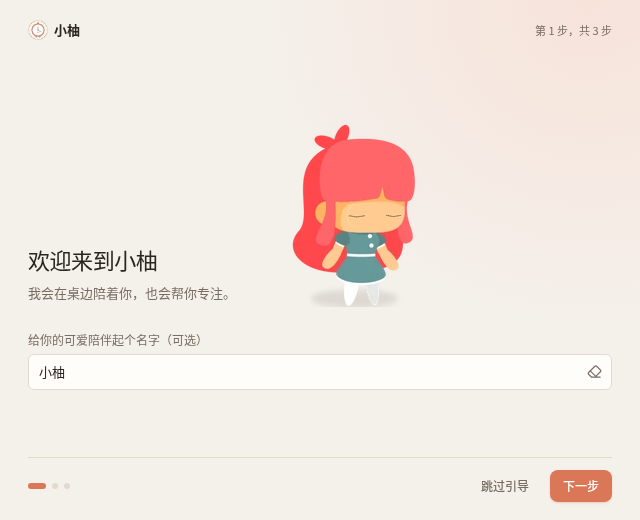
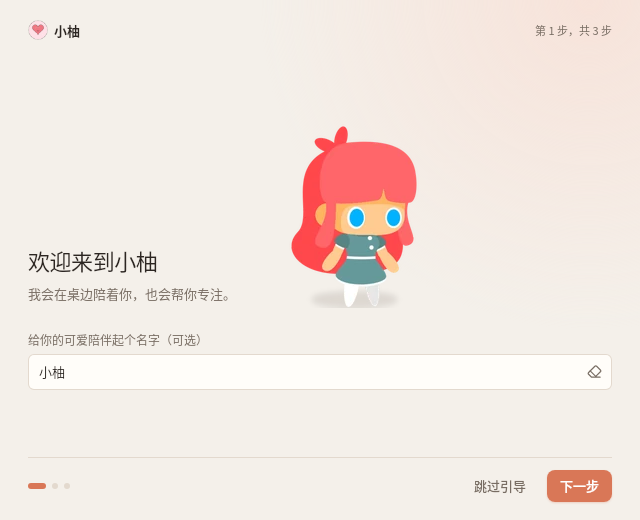
fix(timer): 修复跳过重置、通知本地化与待办时间字段
- 待办新增/编辑弹窗将“提醒时间”移到左侧、“截止时间”移到右侧，并补齐“时间”文案
- 跳过当前计时后清空待开始阶段并回到专注准备气泡，避免遗留其他计时的“专注中”状态
- 新增后端语言解析，系统通知在触发时按当前界面语言生成文案，system 模式解析系统 locale
- 覆盖计时完成、恢复、提醒、待办通知等系统级消息
- 重新截取引导弹窗睁眼状态与计时设置页截图，更新交互/PRD/技术文档与 CHANGELOG

diff --git a/frontend/src/windows/settings/panels/todo/TodoForm.tsx b/frontend/src/windows/settings/panels/todo/TodoForm.tsx
@@ -51,20 +51,20 @@ export function TodoForm({
       </div>
       <div className="todo-time-grid">
         <div className="todo-time-field">
-          <span>{t('settings.todos.due')}</span>
-          <DateTimePicker
-            value={due}
-            onChange={onDueChange}
-            label={t('settings.todos.due')}
-            placeholder={t('settings.todos.datePlaceholder')}
-          />
-        </div>
-        <div className="todo-time-field">
           <span>{t('settings.todos.remind')}</span>
           <DateTimePicker
             value={remind}
             onChange={onRemindChange}
             label={t('settings.todos.remind')}
+            placeholder={t('settings.todos.datePlaceholder')}
+          />
+        </div>
+        <div className="todo-time-field">
+          <span>{t('settings.todos.due')}</span>
+          <DateTimePicker
+            value={due}
+            onChange={onDueChange}
+            label={t('settings.todos.due')}
             placeholder={t('settings.todos.datePlaceholder')}
           />
         </div>

diff --git a/backend/src/timer/service/transitions.rs b/backend/src/timer/service/transitions.rs
@@ -77,39 +77,21 @@ impl TimerService {
         }
         let session_id = self.session_id.take();
         let actual_sec = self.elapsed_sec();
-        let completed_phase = self.phase;
-        let (next_phase, next_total) = match completed_phase {
-            Some(TimerPhase::Focus) => {
-                if self.rounds_setting > 0
-                    && self.rounds_completed > 0
-                    && self.rounds_completed % self.rounds_setting == 0
-                {
-                    (Some(TimerPhase::LongBreak), self.long_break_sec)
-                } else {
-                    (Some(TimerPhase::ShortBreak), self.short_break_sec)
-                }
-            }
-            Some(TimerPhase::LongBreak) => {
-                self.rounds_completed = 0;
-                (Some(TimerPhase::Focus), self.focus_sec)
-            }
-            Some(TimerPhase::ShortBreak) => (Some(TimerPhase::Focus), self.focus_sec),
-            None => (None, 0),
-        };
+        // Skip returns to the focus setup bubble instead of preparing another
+        // phase that would immediately look like a different timer.
+        self.kind = TimerKind::Pomodoro;
         self.status = TimerStatus::Idle;
+        self.phase = None;
+        self.total_sec = self.focus_sec;
+        self.remaining_sec = self.focus_sec;
         self.started_at = None;
         self.ends_at = None;
-        self.remaining_sec = 0;
-        if let Some(next) = next_phase {
-            self.prepare_next(next, next_total);
-        } else {
-            self.phase = None;
-        }
+        self.countup_base = 0;
 
         Some(SkipResult {
             session_id,
             actual_sec,
-            next_phase,
+            next_phase: None,
         })
     }
 

diff --git a/backend/src/menu_text.rs b/backend/src/menu_text.rs
@@ -19,7 +19,7 @@ pub struct PetLabels {
 }
 
 pub fn tray(language: &str) -> TrayLabels {
-    if language == "en-US" {
+    if crate::language::is_english(language) {
         TrayLabels {
             toggle_pet: "Show / Hide Pet",
             start_focus: "Start Focus (25 min)",
@@ -47,7 +47,7 @@ pub fn tray(language: &str) -> TrayLabels {
 }
 
 pub fn pet(language: &str) -> PetLabels {
-    if language == "en-US" {
+    if crate::language::is_english(language) {
         PetLabels {
             start_focus: "Start Focus (25 min)",
             click_through: "Click-through",
@@ -67,7 +67,7 @@ pub fn pet(language: &str) -> PetLabels {
 }
 
 pub fn settings_title(language: &str, name: &str) -> String {
-    if language == "en-US" {
+    if crate::language::is_english(language) {
         format!("{name} Settings")
     } else {
         format!("{name} 设置")
@@ -75,7 +75,7 @@ pub fn settings_title(language: &str, name: &str) -> String {
 }
 
 pub fn onboarding_title(language: &str, name: &str) -> String {
-    if language == "en-US" {
+    if crate::language::is_english(language) {
         format!("Welcome to {name}")
     } else {
         format!("欢迎来到{name}")

diff --git a/backend/src/native_pet/ui.rs b/backend/src/native_pet/ui.rs
@@ -13,7 +13,7 @@ pub(super) fn window_height(size: &str) -> i32 {
 }
 
 pub(super) fn default_hint(language: &str) -> &'static str {
-    if language == "en-US" {
+    if crate::language::is_english(language) {
         "Double-click for settings · right-click for more"
     } else {
         "双击打开设置 · 右键更多"
@@ -21,7 +21,7 @@ pub(super) fn default_hint(language: &str) -> &'static str {
 }
 
 pub(super) fn click_hint(language: &str) -> &'static str {
-    if language == "en-US" {
+    if crate::language::is_english(language) {
         "Hehe, that tickles."
     } else {
         "嘿嘿，好痒。"
@@ -29,7 +29,7 @@ pub(super) fn click_hint(language: &str) -> &'static str {
 }
 
 pub(super) fn ghost_hint(language: &str, enabled: bool) -> &'static str {
-    match (language == "en-US", enabled) {
+    match (crate::language::is_english(language), enabled) {
         (true, true) => "Click-through on",
         (true, false) => "Click-through off",
         (false, true) => "点击穿透已开启",

diff --git a/backend/src/language.rs b/backend/src/language.rs
@@ -1,0 +1,33 @@
+use std::env;
+
+/// Resolve the language used for backend-generated text. The UI resolves
+/// "system" through the platform locale, so backend notifications do the same.
+pub fn is_english(language: &str) -> bool {
+    match language {
+        "en-US" => true,
+        "zh-CN" => false,
+        _ => system_locale().starts_with("en"),
+    }
+}
+
+fn system_locale() -> String {
+    for key in ["LC_ALL", "LC_MESSAGES", "LANG", "LANGUAGE"] {
+        if let Ok(value) = env::var(key) {
+            if !value.trim().is_empty() {
+                return value.to_ascii_lowercase();
+            }
+        }
+    }
+    String::new()
+}
+
+#[cfg(test)]
+mod tests {
+    use super::is_english;
+
+    #[test]
+    fn explicit_languages_are_resolved() {
+        assert!(is_english("en-US"));
+        assert!(!is_english("zh-CN"));
+    }
+}

diff --git a/backend/src/timer/service/tests.rs b/backend/src/timer/service/tests.rs
@@ -43,6 +43,20 @@ fn custom_focus_uses_selected_minutes() {
 }
 
 #[test]
+fn skip_returns_to_focus_setup() {
+    let mut timer = TimerService::new();
+    timer
+        .start(TimerStartRequest::Focus { minutes: 15 }, &settings())
+        .expect("start");
+    let skipped = timer.skip(Utc::now()).expect("skip");
+    assert!(skipped.next_phase.is_none());
+    let snapshot = timer.snapshot();
+    assert_eq!(snapshot.status, TimerStatus::Idle);
+    assert_eq!(snapshot.phase, None);
+    assert_eq!(snapshot.remaining_sec, i64::from(settings().focus_min) * 60);
+}
+
+#[test]
 fn countdown_completes_without_next_phase() {
     let mut timer = TimerService::new();
     timer

diff --git a/backend/src/reminders/runtime.rs b/backend/src/reminders/runtime.rs
@@ -82,7 +82,7 @@ async fn tick(app: &AppHandle) -> Result<(), AppError> {
             continue;
         }
 
-        let (title, body) = text_for(&row.kind, settings.language == "en-US");
+        let (title, body) = text_for(&row.kind, crate::language::is_english(&settings.language));
         let _ = windows::open_bubble(app);
         tokio::time::sleep(Duration::from_millis(250)).await;
         timer::notify(app, &title, &body);

diff --git a/backend/src/timer/events.rs b/backend/src/timer/events.rs
@@ -46,7 +46,7 @@ pub(crate) fn notification_text(
     settings: &Settings,
     completed: &CompletedTimer,
 ) -> (String, String) {
-    let english = settings.language == "en-US";
+    let english = crate::language::is_english(&settings.language);
     match completed.completed_phase {
         Some(TimerPhase::Focus) => {
             let minutes = (completed.next_total / 60).max(1);

diff --git a/backend/src/timer/actions/mod.rs b/backend/src/timer/actions/mod.rs
@@ -62,7 +62,7 @@ pub fn startup(app: &AppHandle) -> Result<(), AppError> {
     emit_pet_state(app, PetState::Celebrate);
     let english = state
         .snapshot()
-        .map(|settings| settings.language == "en-US")
+        .map(|settings| crate::language::is_english(&settings.language))
         .unwrap_or(false);
     if english {
         notify(

diff --git a/backend/src/todos.rs b/backend/src/todos.rs
@@ -41,7 +41,7 @@ async fn tick(app: &AppHandle) -> Result<(), AppError> {
     }
 
     for todo in due {
-        let title = if settings.language == "en-US" {
+        let title = if crate::language::is_english(&settings.language) {
             "Task reminder"
         } else {
             "待办提醒"

diff --git a/backend/src/lib.rs b/backend/src/lib.rs
@@ -8,6 +8,7 @@ mod desktop_brand;
 #[cfg(target_os = "linux")]
 mod desktop_icon;
 mod error;
+mod language;
 mod legacy;
 mod menu;
 mod menu_text;

diff --git a/docs/02-PRD.md b/docs/02-PRD.md
@@ -313,7 +313,7 @@
 | 开始 | 从当前阶段完整时长开始 |
 | 暂停 | 冻结剩余时间，宠物回到 `idle`（或 `sit`） |
 | 继续 | 从剩余时间继续，宠物回到 `focus` / `break` |
-| 跳过 | 当前阶段标记 `skipped`，进入下一阶段；专注跳过不计完成轮次 |
+| 跳过 | 当前阶段标记 `skipped`，回到专注准备气泡；专注跳过不计完成轮次 |
 | 重置 | 丢弃当前未完成的计时（不写入统计），当前阶段回到完整时长并暂停；已完成的今日统计保留 |
 | 停止 | 结束整个番茄钟，回到 idle；当前阶段标记 `interrupted` |
 
@@ -608,7 +608,7 @@
 
 #### FR-SYS-04 通知（MUST）
 
-- 使用系统原生通知；标题/正文本地化。
+- 使用系统原生通知；标题/正文按触发时的当前界面语言本地化。
 - 首次引导请求权限；被拒后设置页显示状态与引导。
 - 通知内容不包含敏感信息；点击通知尽量聚焦相关窗口。
 - 通知失败不阻塞计时完成流程。
